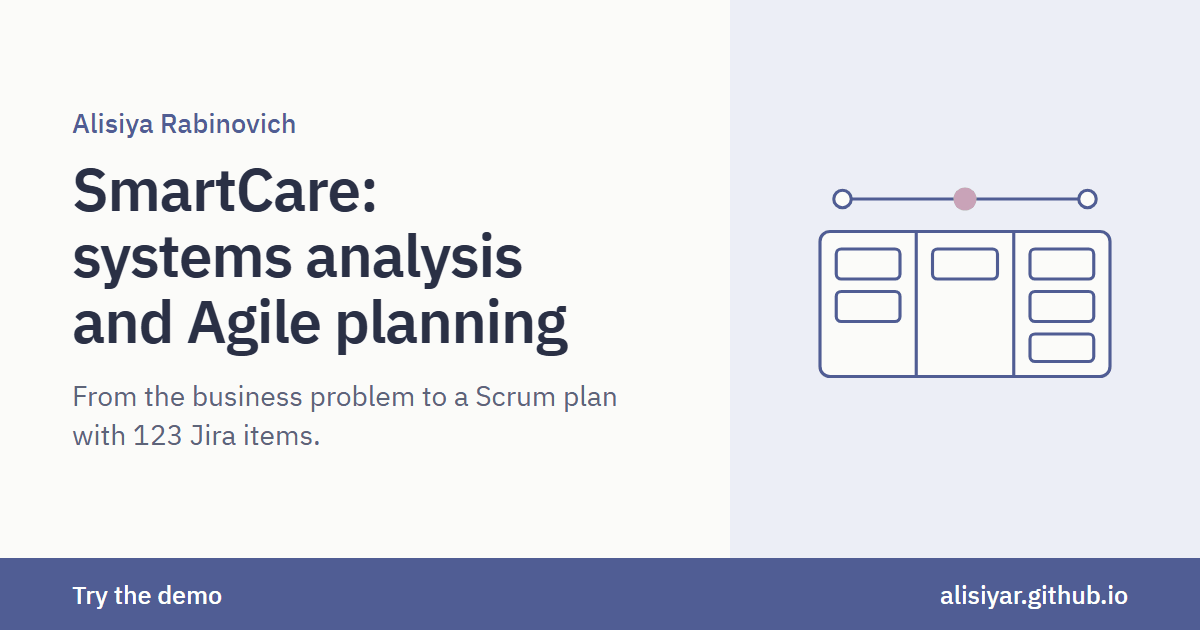
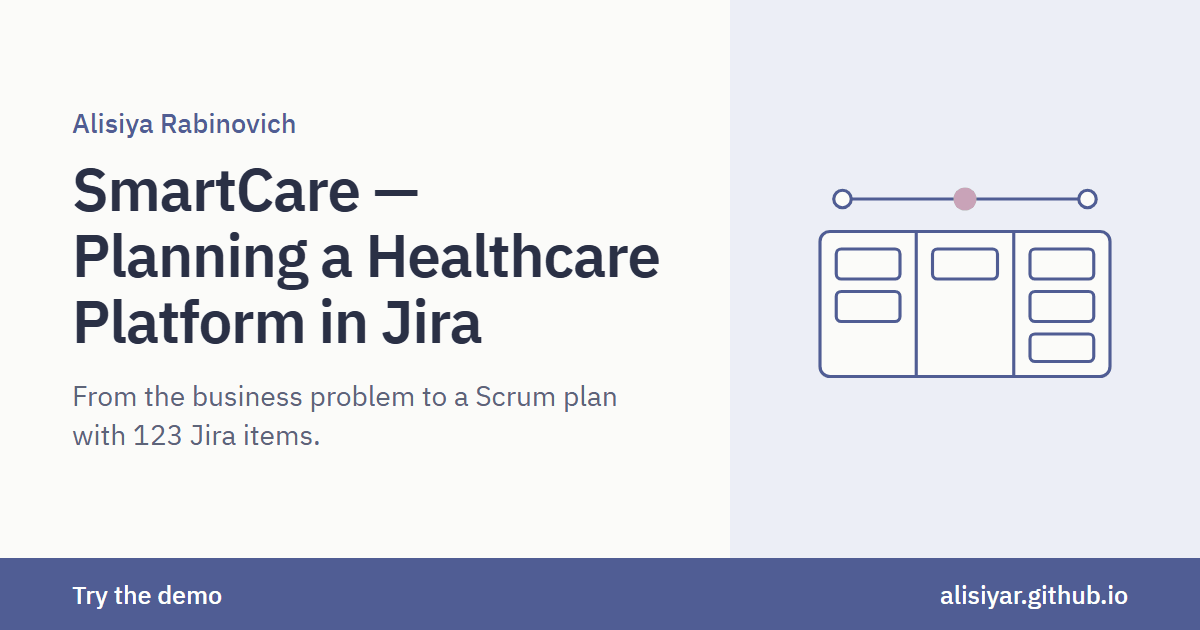
Rewrite SmartCare page and move project links below the demos

Changed region(s): [[0.0617, 0.3619, 0.555, 0.573], [0.3083, 0.3016, 0.3392, 0.3317]]

diff --git a/js/site.js b/js/site.js
@@ -2,8 +2,8 @@
   const S = window.SITE;
   const LOCAL = ["localhost", "127.0.0.1"].includes(location.hostname); // באתר המפורסם פסקאות זמניות ב"עליי" מוסתרות
   const UI = {
-    he: { projects: "פרויקטים", about: "עליי", how: "איך אני עובדת", skills: "כישורים", edu: "השכלה", exp: "ניסיון תעסוקתי", site: "על האתר", looking: "מה אני מחפשת", contact: "יצירת קשר", github: "GitHub", linkedin: "LinkedIn", cv: "קורות חיים", email: "אימייל", copy: "העתקת כתובת המייל", copied: "הועתק", manual: "הכתובת סומנה, העתיקו עם Ctrl+C", try: "לנסות את הדמו", view: "לעמוד הפרויקט", soon: "הדמו בהכנה", back: "לכל הפרויקטים", full: "פתיחה בחלון מלא", demo: "דמו", missing: "הפרויקט לא נמצא", add: "קישור יתווסף", light: "מצב בהיר", dark: "מצב כהה", other: "English", nav: "ניווט", menu: "תפריט", see: "לפרויקטים", shows: "מה זה מראה", result: "תוצאה", next: "הפרויקט הבא", more: "רוצים לדעת עוד?", skip: "דילוג לתוכן", task: "משימה", priority: "עדיפות", assigned: "עובד", type: "סוג", role: "התפקיד שלי", when: "מתי", glance: "במבט אחד", look: "על הדמו", problem: "הבעיה", goal: "המטרה", did: "מה עשיתי", trace: "דרישה אחת, מהצורך ועד המשימות", decisions: "החלטות", instead: "במקום", why: "למה", source: "המקור", tested: "איך בדקתי", catacc: "קטגוריה ועובד", prio: "עדיפות", version: "גרסת פרומפט", hit: "נכון", miss: "טעות", limits: "תקלות, מגבלות והצעד הבא", shotsTitle: "צילומים", diagrams: "תרשימי UML", video: "סרטון של אב-הטיפוס", close: "סגירה", prev: "הקודם", nextImg: "הבא" },
-    en: { projects: "Projects", about: "About", how: "How I work", skills: "Skills", edu: "Education", exp: "Work experience", site: "About this site", looking: "Looking for", contact: "Contact", github: "GitHub", linkedin: "LinkedIn", cv: "CV", email: "Email", copy: "Copy email address", copied: "Copied", manual: "Address selected, copy with Ctrl+C", try: "Try the demo", view: "View project", soon: "Demo in progress", back: "All projects", full: "Open full page", demo: "Demo", missing: "Project not found", add: "Link coming", light: "Light mode", dark: "Dark mode", other: "עברית", nav: "Navigation", menu: "Menu", see: "See the projects", shows: "What it shows", result: "Result", next: "Next project", more: "Want to know more?", skip: "Skip to content", task: "Task", priority: "Priority", assigned: "Assigned to", type: "Type", role: "My role", when: "When", glance: "At a glance", look: "About the demo", problem: "The problem", goal: "The goal", did: "What I did", trace: "One requirement, from the need to the tasks", decisions: "Decisions", instead: "Instead of", why: "Why", source: "Source", tested: "How I tested it", catacc: "Category and employee", prio: "Priority", version: "Prompt version", hit: "Right", miss: "Missed", limits: "Problems, limits and next steps", shotsTitle: "Screenshots", diagrams: "UML diagrams", video: "Video of the prototype", close: "Close", prev: "Previous", nextImg: "Next" }
+    he: { projects: "פרויקטים", about: "עליי", how: "איך אני עובדת", skills: "כישורים", edu: "השכלה", exp: "ניסיון תעסוקתי", site: "על האתר", looking: "מה אני מחפשת", contact: "יצירת קשר", github: "GitHub", linkedin: "LinkedIn", cv: "קורות חיים", email: "אימייל", copy: "העתקת כתובת המייל", copied: "הועתק", manual: "הכתובת סומנה, העתיקו עם Ctrl+C", try: "לנסות את הדמו", view: "לעמוד הפרויקט", soon: "הדמו בהכנה", back: "לכל הפרויקטים", full: "פתיחה בחלון מלא", demo: "דמו", missing: "הפרויקט לא נמצא", add: "קישור יתווסף", light: "מצב בהיר", dark: "מצב כהה", other: "English", nav: "ניווט", menu: "תפריט", opening: "הרעיון", planning: "תכנון הפרויקט", viewGh: "לפרויקט ב-GitHub", see: "לפרויקטים", shows: "מה זה מראה", result: "תוצאה", next: "הפרויקט הבא", more: "רוצים לדעת עוד?", skip: "דילוג לתוכן", task: "משימה", priority: "עדיפות", assigned: "עובד", type: "סוג", role: "התפקיד שלי", when: "מתי", glance: "במבט אחד", look: "על הדמו", problem: "הבעיה", goal: "המטרה", did: "מה עשיתי", trace: "דרישה אחת, מהצורך ועד המשימות", decisions: "החלטות", instead: "במקום", why: "למה", source: "המקור", tested: "איך בדקתי", catacc: "קטגוריה ועובד", prio: "עדיפות", version: "גרסת פרומפט", hit: "נכון", miss: "טעות", limits: "תקלות, מגבלות והצעד הבא", shotsTitle: "צילומים", diagrams: "תרשימי UML", video: "סרטון של אב-הטיפוס", close: "סגירה", prev: "הקודם", nextImg: "הבא" },
+    en: { projects: "Projects", about: "About", how: "How I work", skills: "Skills", edu: "Education", exp: "Work experience", site: "About this site", looking: "Looking for", contact: "Contact", github: "GitHub", linkedin: "LinkedIn", cv: "CV", email: "Email", copy: "Copy email address", copied: "Copied", manual: "Address selected, copy with Ctrl+C", try: "Try the demo", view: "View project", soon: "Demo in progress", back: "All projects", full: "Open full page", demo: "Demo", missing: "Project not found", add: "Link coming", light: "Light mode", dark: "Dark mode", other: "עברית", nav: "Navigation", menu: "Menu", opening: "The idea", planning: "Project planning", viewGh: "View project on GitHub", see: "See the projects", shows: "What it shows", result: "Result", next: "Next project", more: "Want to know more?", skip: "Skip to content", task: "Task", priority: "Priority", assigned: "Assigned to", type: "Type", role: "My role", when: "When", glance: "At a glance", look: "About the demo", problem: "The problem", goal: "The goal", did: "What I did", trace: "One requirement, from the need to the tasks", decisions: "Decisions", instead: "Instead of", why: "Why", source: "Source", tested: "How I tested it", catacc: "Category and employee", prio: "Priority", version: "Prompt version", hit: "Right", miss: "Missed", limits: "Problems, limits and next steps", shotsTitle: "Screenshots", diagrams: "UML diagrams", video: "Video of the prototype", close: "Close", prev: "Previous", nextImg: "Next" }
   };
   const store = {
     get(k) { try { return localStorage.getItem(k); } catch { return null; } },
@@ -73,8 +73,8 @@
     return svg;
   }
   const tags = list => list.length ? h("ul", { class: "tags" }, list.map(x => h("li", { dir: "ltr" }, x))) : null;
-  const github = p => (Array.isArray(p.code) ? p.code : p.code ? [{ label: "GitHub", url: p.code }] : []).map(c =>
-    h("a", { class: "btn", href: c.url, target: "_blank", rel: "noopener", "aria-label": `${tr(c.label)}, GitHub: ${plain(p.title)}` }, tr(c.label), icon("github", "ring")));
+  const github = (p, long) => (Array.isArray(p.code) ? p.code : p.code ? [{ label: "GitHub", url: p.code }] : []).map(c =>
+    h("a", { class: "btn", href: c.url, target: "_blank", rel: "noopener", "aria-label": `${long ? tr(c.view) || UI[lang].viewGh : tr(c.label) + ", GitHub"}: ${plain(p.title)}` }, long ? glue(tr(c.view) || UI[lang].viewGh) : tr(c.label), icon("github", "ring")));
   // כתובת המייל גלויה; לחיצה מעתיקה אותה
   function mailCopy(address) {
     const u = UI[lang], text = h("bdi", {}, address), note = h("span", { class: "copied", role: "status" });
@@ -249,15 +249,16 @@
   function story(p) {
     const u = UI[lang], c = p.case || {};
     return h("div", { class: "detailtext", id: "story" },
+      c.opening ? block("opening", paras(c.opening)) : null,
+      c.planning ? block("planning", paras(c.planning), c.planningLinks ? h("div", { class: "links" }, c.planningLinks.map(x => link(tr(x.text), x.url, "btn", icon("github", "ring")))) : null) : null,
       c.problem ? block("problem", paras(c.problem)) : null, c.goal ? block("goal", paras(c.goal)) : null,
-      c.did ? block("did", paras(c.did)) : null,
+      c.did ? h("div", { class: "block", id: "did" }, h("h2", {}, c.didTitle ? txt(c.didTitle) : u.did), paras(c.did)) : null,
       c.trace ? block("trace", h("ol", { class: "trace" }, c.trace.map(([a, b]) => h("li", {}, h("strong", {}, txt(a)), h("span", {}, txt(b)))))) : null,
       c.decisions ? block("decisions", h("div", { class: "decisions" }, c.decisions.map(d => h("article", {}, h("h3", {}, txt(d.title)),
         d.instead ? h("p", { class: "note" }, u.instead + ": ", txt(d.instead)) : null, h("p", {}, txt(d.why)),
         d.url ? h("a", { href: d.url, ...OUT(d.url), "aria-label": `${u.source}: ${plain(d.title)}` }, u.source) : null)))) : null,
       c.tested ? block("tested", paras(c.tested), c.runs ? runs(c.runs) : null) : null,
-      c.limits ? block("limits", h("ul", {}, c.limits[lang].map(x => h("li", {}, glue(x))))) : null,
-      tags(p.tech), h("div", { class: "links" }, github(p), c.video ? link(u.video, c.video, "btn", icon("github", "ring")) : null));
+      c.limits ? block("limits", h("ul", {}, c.limits[lang].map(x => h("li", {}, glue(x))))) : null);
   }
   // גלריה: לחיצה מגדילה בתוך העמוד (הקישור עצמו פותח את הקובץ)
   function gallery(title, list, wide) {
@@ -291,6 +292,7 @@
       p.case?.look ? h("p", { class: "look" }, h("strong", {}, (tr(p.case.lookLabel) || u.look) + ": "), txt(p.case.look)) : null,
       p.demo ? h("iframe", { src: p.demo, onload: fit, title: u.demo + ": " + plain(p.title) })
         : h("div", { class: "soon" }, pattern(p.id), h("p", {}, u.soon)),
+      h("div", { class: "under" }, tags(p.tech), h("div", { class: "links" }, github(p, true), p.case?.video ? link(u.video, p.case.video, "btn", icon("github", "ring")) : null)),
       story(p),
       gallery(u.shotsTitle, p.shots, p.wide), gallery(u.diagrams, p.diagrams, true),
       h("div", { class: "after" },

diff --git a/js/content.js b/js/content.js
@@ -123,15 +123,15 @@ window.SITE = {
       tech: ["Python", "Make.com", "Google Gemini", "Gmail API", "OAuth 2.0", "monday.com", "Pydantic", "Claude Code"],
       demo: "demos/heido/index.html",
       code: [
-        { label: { he: "גרסת קוד: Python", en: "Code version: Python" }, url: "https://github.com/AlisiyaR/heido-ai-triage-code" },
-        { label: { he: "גרסה ללא קוד: Make.com", en: "No-code version: Make.com" }, url: "https://github.com/AlisiyaR/heido-ai-triage-no-code" }
+        { view: { he: "לקוד ה-Python ב-GitHub", en: "View Python version on GitHub" }, label: { he: "גרסת קוד: Python", en: "Code version: Python" }, url: "https://github.com/AlisiyaR/heido-ai-triage-code" },
+        { view: { he: "לגרסת Make.com ב-GitHub", en: "View Make.com version on GitHub" }, label: { he: "גרסה ללא קוד: Make.com", en: "No-code version: Make.com" }, url: "https://github.com/AlisiyaR/heido-ai-triage-no-code" }
       ]
     },
     {
       id: "smartcare", page: "smartcare.html",
       shows: { he: "תרגום בעיה עסקית לדרישות ולתוכנית", en: "Turning a business problem into requirements and a plan" },
       result: { he: "12 סיפורי משתמש, 123 פריטים מתועדפים ושלושה ספרינטים", en: "12 user stories, 123 prioritized items and three sprints" },
-      title: { he: "SmartCare: ניתוח מערכת ותכנון Agile", en: "SmartCare: systems analysis and Agile planning" },
+      title: { he: "SmartCare — תכנון פלטפורמה רפואית ב-Jira", en: "SmartCare — Planning a Healthcare Platform in Jira" },
       summary: {
         he: "ניתוח ותכנון של פלטפורמה מוצעת לקופת חולים, מהבעיה העסקית ועד תוכנית Scrum עם 123 פריטים ב-Jira.",
         en: "Systems analysis and planning for a proposed health-plan platform, from the business problem to a Scrum plan with 123 Jira items."
@@ -141,16 +141,28 @@ window.SITE = {
         role: { he: "ניתוח מערכת ותכנון, באופן עצמאי", en: "Systems analysis and planning, independently" },
         when: { he: "מאי–יוני 2026", en: "May–June 2026" },
         look: { he: "עותק לצפייה בלבד של סביבת ה-Jira של הפרויקט, שמראה איך דרישות הפכו לסיפורי משתמש, למשימות ולספרינטים.", en: "A view-only copy of the project's Jira workspace. It shows how requirements became user stories, tasks and sprints." },
-        problem: { he: "אפליקציות של קופות חולים תומכות בפעולות בודדות, כמו קביעת תור או צפייה בתוצאות בדיקה, אבל לא בטיפול כתהליך אחד. המטופלים עוקבים בעצמם אחרי בדיקות, מסמכים והפניות, וזה מעכב אבחון וטיפול.", en: "Health-plan apps support single actions, such as booking an appointment or viewing test results, but not a member's care as one process. Members track tests, documents and referrals on their own, which delays diagnosis and treatment." },
-        did: {
+        opening: {
           he: [
-            "SmartCare היא פלטפורמה מוצעת שמרכזת את המידע ומציגה לכל מטופל את הצעד הבא, ולרופאים את אותה תמונה.",
-            "הגדרתי את הבעיה, את המצב הקיים והרצוי ואת בעלי העניין, וכתבתי מסמך ייזום, ניתוח היתכנות ו-12 סיפורי משתמש עם קריטריוני קבלה. פירקתי את הסיפורים ל-24 משימות ו-72 תתי-משימות ותכננתי שלושה ספרינטים ב-Jira."
+            "SmartCare היא פלטפורמה שהצעתי למטופלים שעוברים סדרה של שלבים רפואיים, כמו קבלת אבחון, טיפול במחלה, או הכנה לניתוח והחלמה ממנו. הרעיון נולד מפער שזיהיתי בשירותי הבריאות הדיגיטליים. מטופלים יכולים לקבוע תורים, לצפות בתוצאות בדיקות ולכתוב לרופא, אבל עדיין צריכים להרכיב בעצמם את התמונה של מה צריך לקרות ובאיזה סדר.",
+            "תכננתי את SmartCare סביב ציר טיפול אישי. המטופלים יראו כל שלב לפי הסדר, מה כבר השלימו ומה עליהם לעשות בהמשך. לפני תור, הציר יתריע על בדיקות שעדיין צריך להשלים או על מסמכים שצריך להגיש. תכננתי את הפרויקט באופן עצמאי, במסגרת קורס ניהול פרויקטי תוכנה."
           ],
           en: [
-            "SmartCare is a proposed platform that brings the information together and shows each member the next step, with the same view for physicians.",
-            "I defined the problem, the current and target state and the stakeholders, and wrote a project charter, a feasibility analysis and 12 user stories with acceptance criteria. I broke the stories into 24 tasks and 72 sub-tasks and planned three sprints in Jira."
+            "SmartCare is a platform I proposed for patients going through a series of medical steps, such as getting a diagnosis, receiving treatment for an illness, or preparing for and recovering from surgery. The idea came from a gap I noticed in digital health services. Patients can book appointments, view test results, and message their doctor, but they still have to piece together what needs to happen and in what order.",
+            "I designed SmartCare around a personal care timeline. Patients would see each step in sequence, what they had already completed, and what they needed to do next. Ahead of an appointment, the timeline would flag any tests they still needed to complete or documents they needed to provide. I planned the project independently as part of my Software Project Management course."
           ]
+        },
+        planning: {
+          he: "לפני שבניתי את ה-Backlog ב-Jira, בדקתי את הכדאיות של SmartCare וכתבתי את מסמך הייזום. במסמך תכנון נפרד זיהיתי את ההנחות שמאחורי הפרויקט, את האילוצים על הביצוע ואת הסיכונים שאצטרך לנהל, כולל הקושי בחיבור של SmartCare למערכות הקיימות של קופת החולים.",
+          en: "Before building the Jira backlog, I assessed SmartCare’s feasibility and wrote the project charter. In a separate planning document, I identified the assumptions behind the project, the constraints on delivery, and the risks I would need to manage, including the difficulty of connecting SmartCare to the health plan’s existing systems."
+        },
+        planningLinks: [
+          { text: { he: "מסמך הייזום ובדיקת הכדאיות", en: "Project charter and feasibility analysis" }, url: "https://github.com/AlisiyaR/smartcare-systems-analysis/blob/main/docs/project-initiation.md" },
+          { text: { he: "הנחות, אילוצים וסיכונים", en: "Assumptions, constraints, and risks" }, url: "https://github.com/AlisiyaR/smartcare-systems-analysis/blob/main/docs/assumptions-constraints-risks.md" }
+        ],
+        didTitle: { he: "איך תכננתי את העבודה ב-Jira", en: "How I planned the work in Jira" },
+        did: {
+          he: ["ארגנתי את ה-Backlog סביב שלושה מקרי שימוש: מעקב אחרי מסע הטיפול של המטופל, קביעת תורים וניהול התיק הרפואי הדיגיטלי. לכל מקרה שימוש כתבתי סיפורי משתמש עם קריטריוני קבלה, פירקתי את העבודה למשימות ולתתי-משימות, וקבעתי עדיפויות לפי ערך ותלויות. לאחר מכן תכננתי שלושה ספרינטים והשתמשתי בלוח Scrum כדי להדגים איך העבודה מתקדמת בין השלבים."],
+          en: ["I organized the backlog around three use cases: following a patient’s care journey, scheduling appointments, and managing the digital medical record. For each use case, I wrote user stories with acceptance criteria, broke the work into tasks and subtasks, and set priorities based on value and dependencies. I then planned three sprints and used a Scrum board to demonstrate how the work would move through each stage."]
         },
         trace: [
           [{ he: "הצורך", en: "The need" }, { he: "לקבוע את התור הנכון כבר בפעם הראשונה", en: "Book the right appointment the first time" }],
@@ -199,7 +211,7 @@ window.SITE = {
       case: {
         type: { he: "פרויקט אקדמי, התמחות סייבר", en: "Academic project, cybersecurity specialization" },
         role: { he: "תכנון, כתיבה ב-Bash ותיעוד", en: "Design, Bash scripting and documentation" },
-        when: { he: "2025–2026", en: "2025–2026" },
+        when: { he: "2026", en: "2026" },
         look: { he: "שחזור של שלושת הכלים במסוף, לפי השאלות, בדיקות הקלט וההודעות של הסקריפטים המקוריים. הפלט מבוסס על הסקריפטים ועל הרצות המעבדה.", en: "The three tools recreated in a terminal, following the questions, input checks and messages of the original scripts. The output is based on the scripts and their lab runs." },
         problem: { he: "בדיקת רשת דורשת להריץ כמה כלים בסדר הנכון ולשמור את הפלט שלהם. המטרה: תהליך אחד שחוזר על עצמו, וכל פעולה בו מתועדת.", en: "Checking a network means running several tools in the right order and keeping their output. The goal: one repeatable process in which every action is recorded." },
         did: {

diff --git a/demos/smartcare/app.js b/demos/smartcare/app.js
@@ -23,11 +23,11 @@
   root.dir = he ? "rtl" : "ltr";
   root.dataset.theme = theme || (matchMedia("(prefers-color-scheme: dark)").matches ? "dark" : "light");
   $("lead").textContent = he
-    ? "עברו בין הלשוניות, סננו, ולחצו על פריט כדי לקרוא אותו. כל 123 הפריטים זמינים לצפייה."
-    : "Switch tabs, filter, and click any item to read it. All 123 work items are available to view.";
+    ? "עקבו אחרי דרישה אחת בסביבת ה-Jira. התחילו בסיפור המטופל על קביעת התור הנכון, המשיכו לכללים העסקיים, ראו מה אמור לקרות כשחסרה הפניה, ומצאו את הספרינט שבו תוכננה העבודה. אפשר גם לעיין בכל 123 הפריטים."
+    : "Follow one requirement through the Jira workspace. Start with the patient story about booking the right appointment, then explore the business rules, see what should happen when a referral is missing, and find the sprint where the work was planned. You can also browse all 123 work items.";
   $("note").textContent = he
-    ? "הדמיה לצפייה בלבד, תמונת מצב מ-23.11.2026. זהו פרויקט אקדמי: המערכת לא פותחה, והספרינטים, הסטטוסים, התאריכים והבאגים הם סימולציה משוחזרת. האתר אינו מחובר ל-Jira ואינו מוצר של Atlassian."
-    : "View-only simulation, snapshot of 23 November 2026. This is an academic project: the system was not developed, and the sprints, statuses, dates and bugs are a reconstructed simulation. This site is not connected to Jira and is not an Atlassian product.";
+    ? "הדמיה לצפייה בלבד. זהו פרויקט אקדמי: המערכת לא פותחה, והספרינטים, הסטטוסים, התאריכים והבאגים הם סימולציה משוחזרת. האתר אינו מחובר ל-Jira ואינו מוצר של Atlassian."
+    : "View-only simulation. This is an academic project: the system was not developed, and the sprints, statuses, dates and bugs are a reconstructed simulation. This site is not connected to Jira and is not an Atlassian product.";
 
   function h(tag, attrs, ...children) {
     const e = document.createElement(tag);

diff --git a/js/edit.js b/js/edit.js
@@ -27,7 +27,7 @@
     pair(g, `projects.${p.id}.shows`, "מה זה מראה", p.shows);
     pair(g, `projects.${p.id}.result`, "תוצאה", p.result);
     const c = p.case, at = `projects.${p.id}.case.`;
-    for (const [k, l] of [["type", "סוג"], ["role", "תפקיד"], ["when", "מתי"], ["lookLabel", "כותרת השורה מעל הדמו"], ["look", "השורה מעל הדמו"], ["problem", "הבעיה"], ["goal", "המטרה"], ["did", "מה עשיתי (שורה ריקה בין פסקאות)"], ["tested", "איך בדקתי"], ["limits", "מגבלות (שורה ריקה בין סעיפים)"]]) if (c[k]) pair(g, at + k, l, c[k]);
+    for (const [k, l] of [["type", "סוג"], ["role", "תפקיד"], ["when", "מתי"], ["lookLabel", "כותרת השורה מעל הדמו"], ["look", "השורה מעל הדמו"], ["opening", "הרעיון (שורה ריקה בין פסקאות)"], ["planning", "תכנון הפרויקט"], ["didTitle", "כותרת: מה עשיתי"], ["problem", "הבעיה"], ["goal", "המטרה"], ["did", "מה עשיתי (שורה ריקה בין פסקאות)"], ["tested", "איך בדקתי"], ["limits", "מגבלות (שורה ריקה בין סעיפים)"]]) if (c[k]) pair(g, at + k, l, c[k]);
     c.decisions.forEach((d, i) => { for (const [k, l] of [["title", "כותרת"], ["instead", "במקום"], ["why", "למה"]]) if (d[k]) pair(g, `${at}decisions.${i}.${k}`, `החלטה ${i + 1}: ${l}`, d[k]); });
     (c.trace || []).forEach((s, i) => s.forEach((x, j) => pair(g, `${at}trace.${i}.${j}`, `שלב ${i + 1}${j ? ": פירוט" : ""}`, x)));
     if (c.runs) pair(g, at + "runs.note", "הערה לתרשים", c.runs.note);

diff --git a/smartcare.html b/smartcare.html
@@ -4,12 +4,12 @@
 <meta charset="utf-8">
 <meta name="viewport" content="width=device-width, initial-scale=1">
 <meta name="theme-color" content="#505d94">
-<title>SmartCare: systems analysis and Agile planning | Alisiya Rabinovich</title>
+<title>SmartCare — Planning a Healthcare Platform in Jira | Alisiya Rabinovich</title>
 <meta name="description" content="Systems analysis and planning for a proposed health-plan platform, from the business problem to a Scrum plan with 123 Jira items.">
 <link rel="canonical" href="https://alisiyar.github.io/smartcare.html">
 <meta property="og:type" content="website">
 <meta property="og:site_name" content="Alisiya Rabinovich">
-<meta property="og:title" content="SmartCare: systems analysis and Agile planning | Alisiya Rabinovich">
+<meta property="og:title" content="SmartCare — Planning a Healthcare Platform in Jira | Alisiya Rabinovich">
 <meta property="og:description" content="Systems analysis and planning for a proposed health-plan platform, from the business problem to a Scrum plan with 123 Jira items.">
 <meta property="og:url" content="https://alisiyar.github.io/smartcare.html">
 <meta property="og:image" content="https://alisiyar.github.io/assets/og/smartcare.png">

diff --git a/css/style.css b/css/style.css
@@ -136,6 +136,9 @@ iframe{display:block}
 .glance{display:grid;grid-template-columns:repeat(auto-fit,minmax(11rem,1fr));gap:1rem 2rem;margin-top:1.75rem;padding:1.1rem 1.4rem;background:var(--panel);border-radius:12px;font-size:.98rem;line-height:1.45}
 .glance dt{font-size:.85rem;font-weight:500;color:var(--acc)}
 .glance dd{margin:.1rem 0 0}
+.block .links{margin-top:1rem}
+.under{margin-top:1.5rem}
+.under .links{margin-top:1rem}
 .look{margin-bottom:.9rem}
 .look strong,.block strong{font-weight:600}
 .block>h2,.gal>h2{font-size:1.4rem;margin-bottom:.7rem}

diff --git a/README.md b/README.md
@@ -9,7 +9,7 @@ My portfolio site, in Hebrew and English, with a demo of each project that runs 
 | Project | What you can do in the demo | Source |
 |---|---|---|
 | [Heido: AI support email triage](https://alisiyar.github.io/heido.html) | Send a ready-made customer email and watch it become a task on the support team's board | [Python](https://github.com/AlisiyaR/heido-ai-triage-code) · [No-code (Make.com)](https://github.com/AlisiyaR/heido-ai-triage-no-code) |
-| [SmartCare: systems analysis and Agile planning](https://alisiyar.github.io/smartcare.html) | Browse a view-only Scrum workspace with all 123 work items | [Repository](https://github.com/AlisiyaR/smartcare-systems-analysis) |
+| [SmartCare — Planning a Healthcare Platform in Jira](https://alisiyar.github.io/smartcare.html) | Browse a view-only Scrum workspace with all 123 work items | [Repository](https://github.com/AlisiyaR/smartcare-systems-analysis) |
 | [Cybersecurity lab: Bash automation](https://alisiyar.github.io/cybersecurity-lab.html) | Run three lab tools in a simulated terminal | [Repository](https://github.com/AlisiyaR/cybersecurity-lab-projects) |
 | [Worldwide Weather: Android app](https://alisiyar.github.io/weather.html) | Search for a city in a browser version of the app | [Repository](https://github.com/AlisiyaR/worldwide-weather-android) |
 
